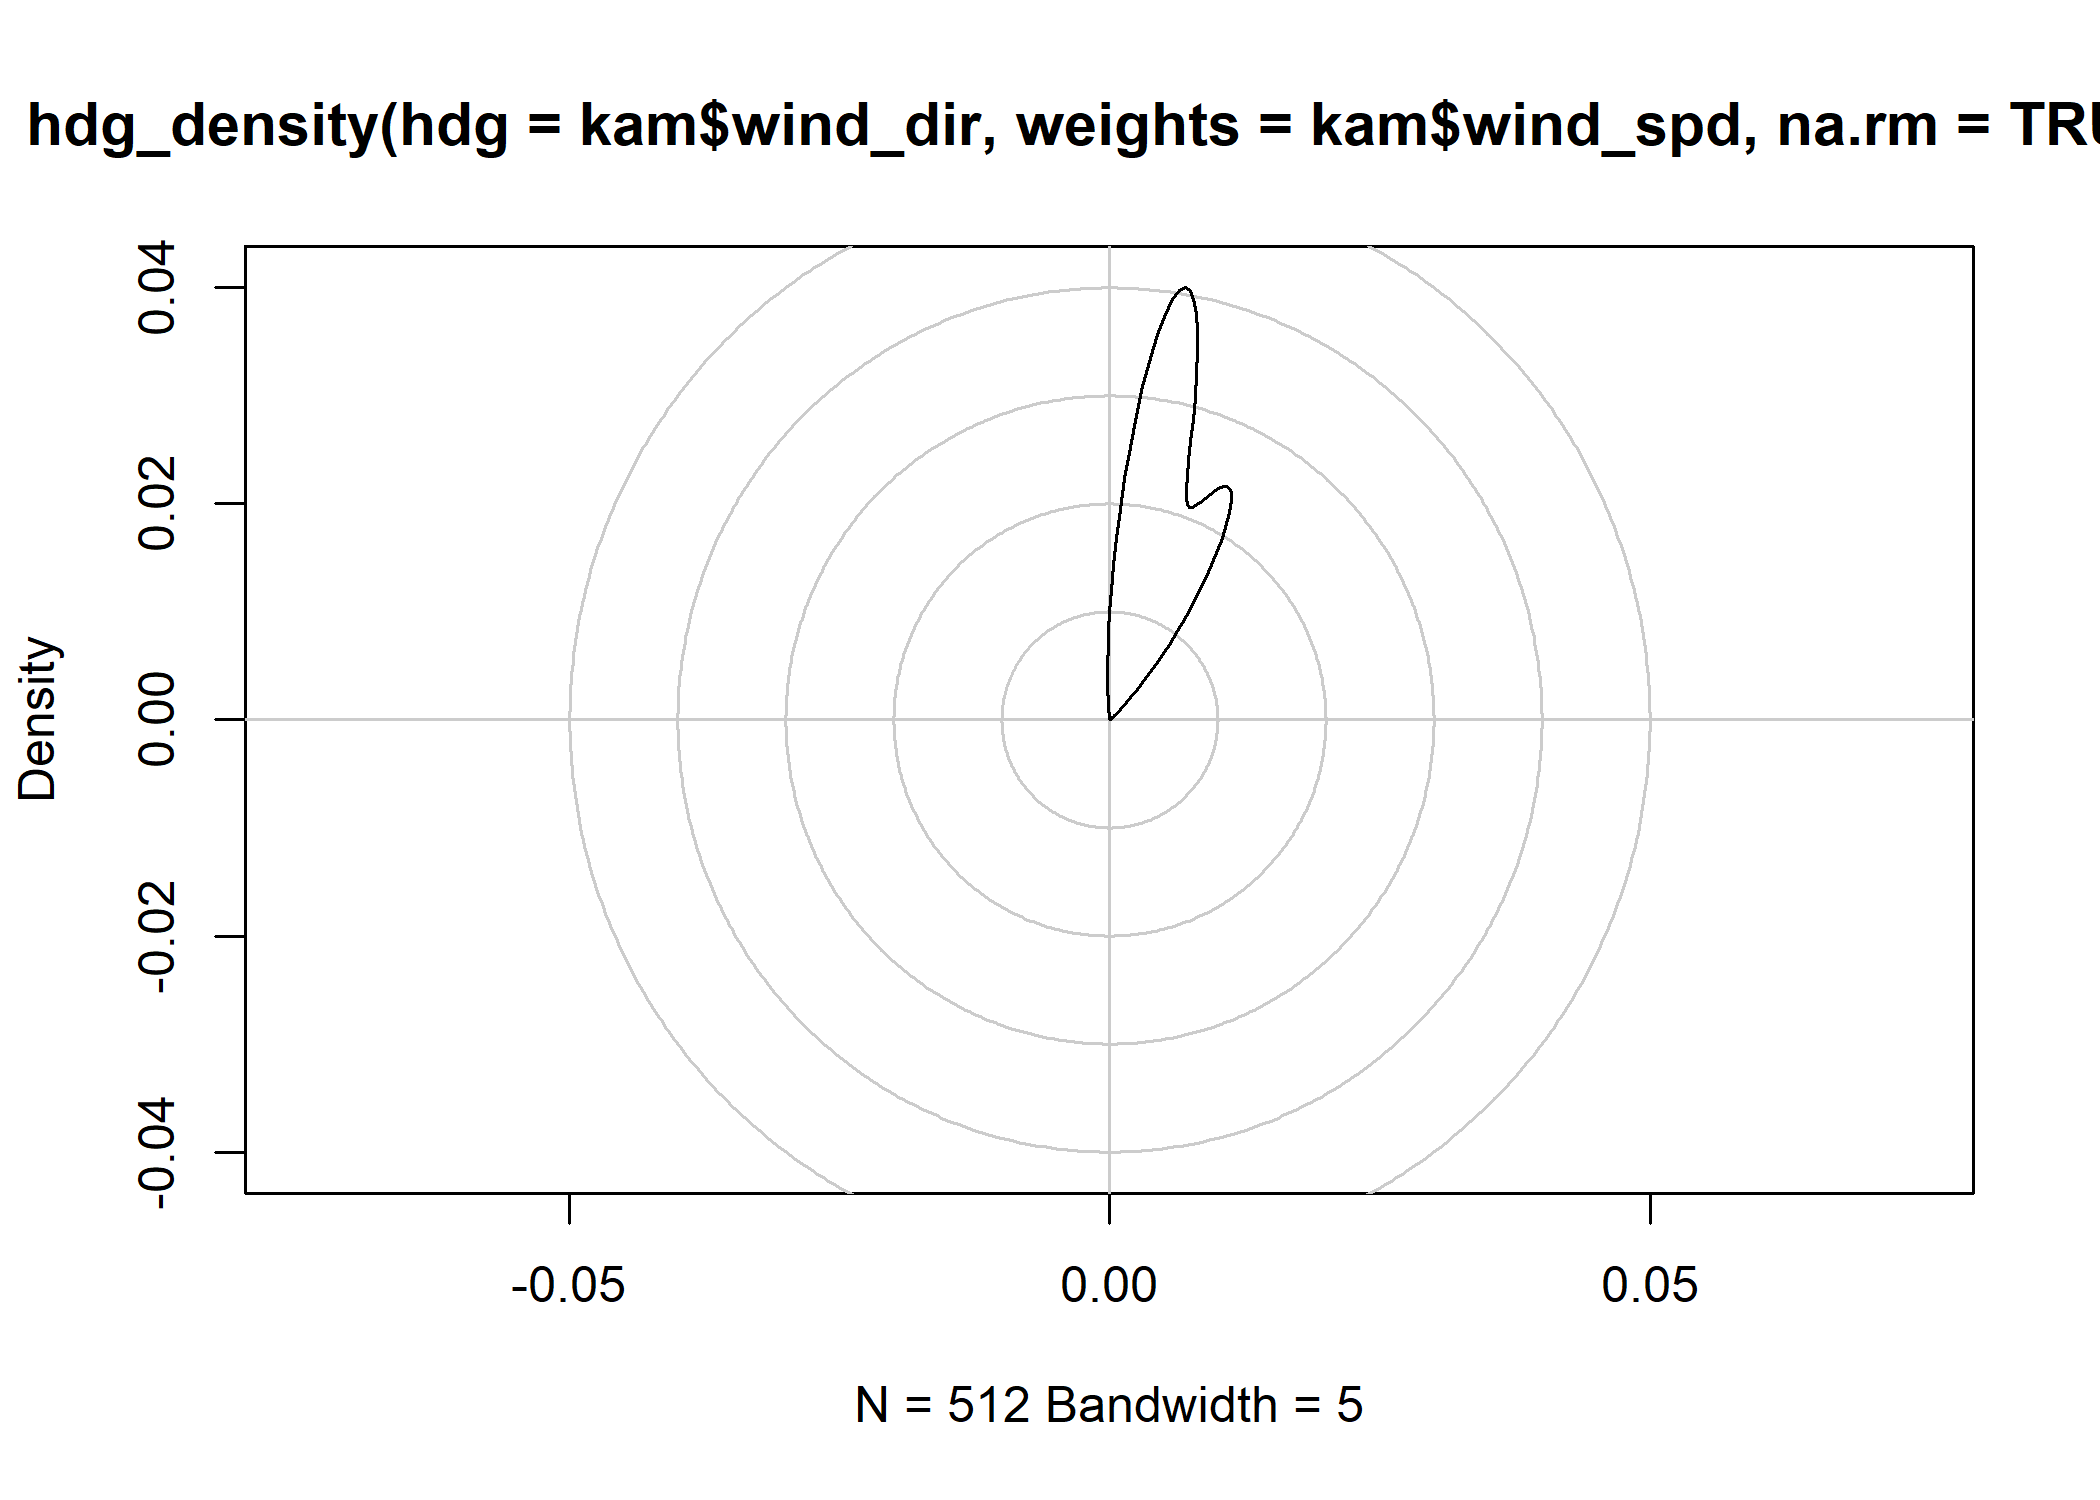
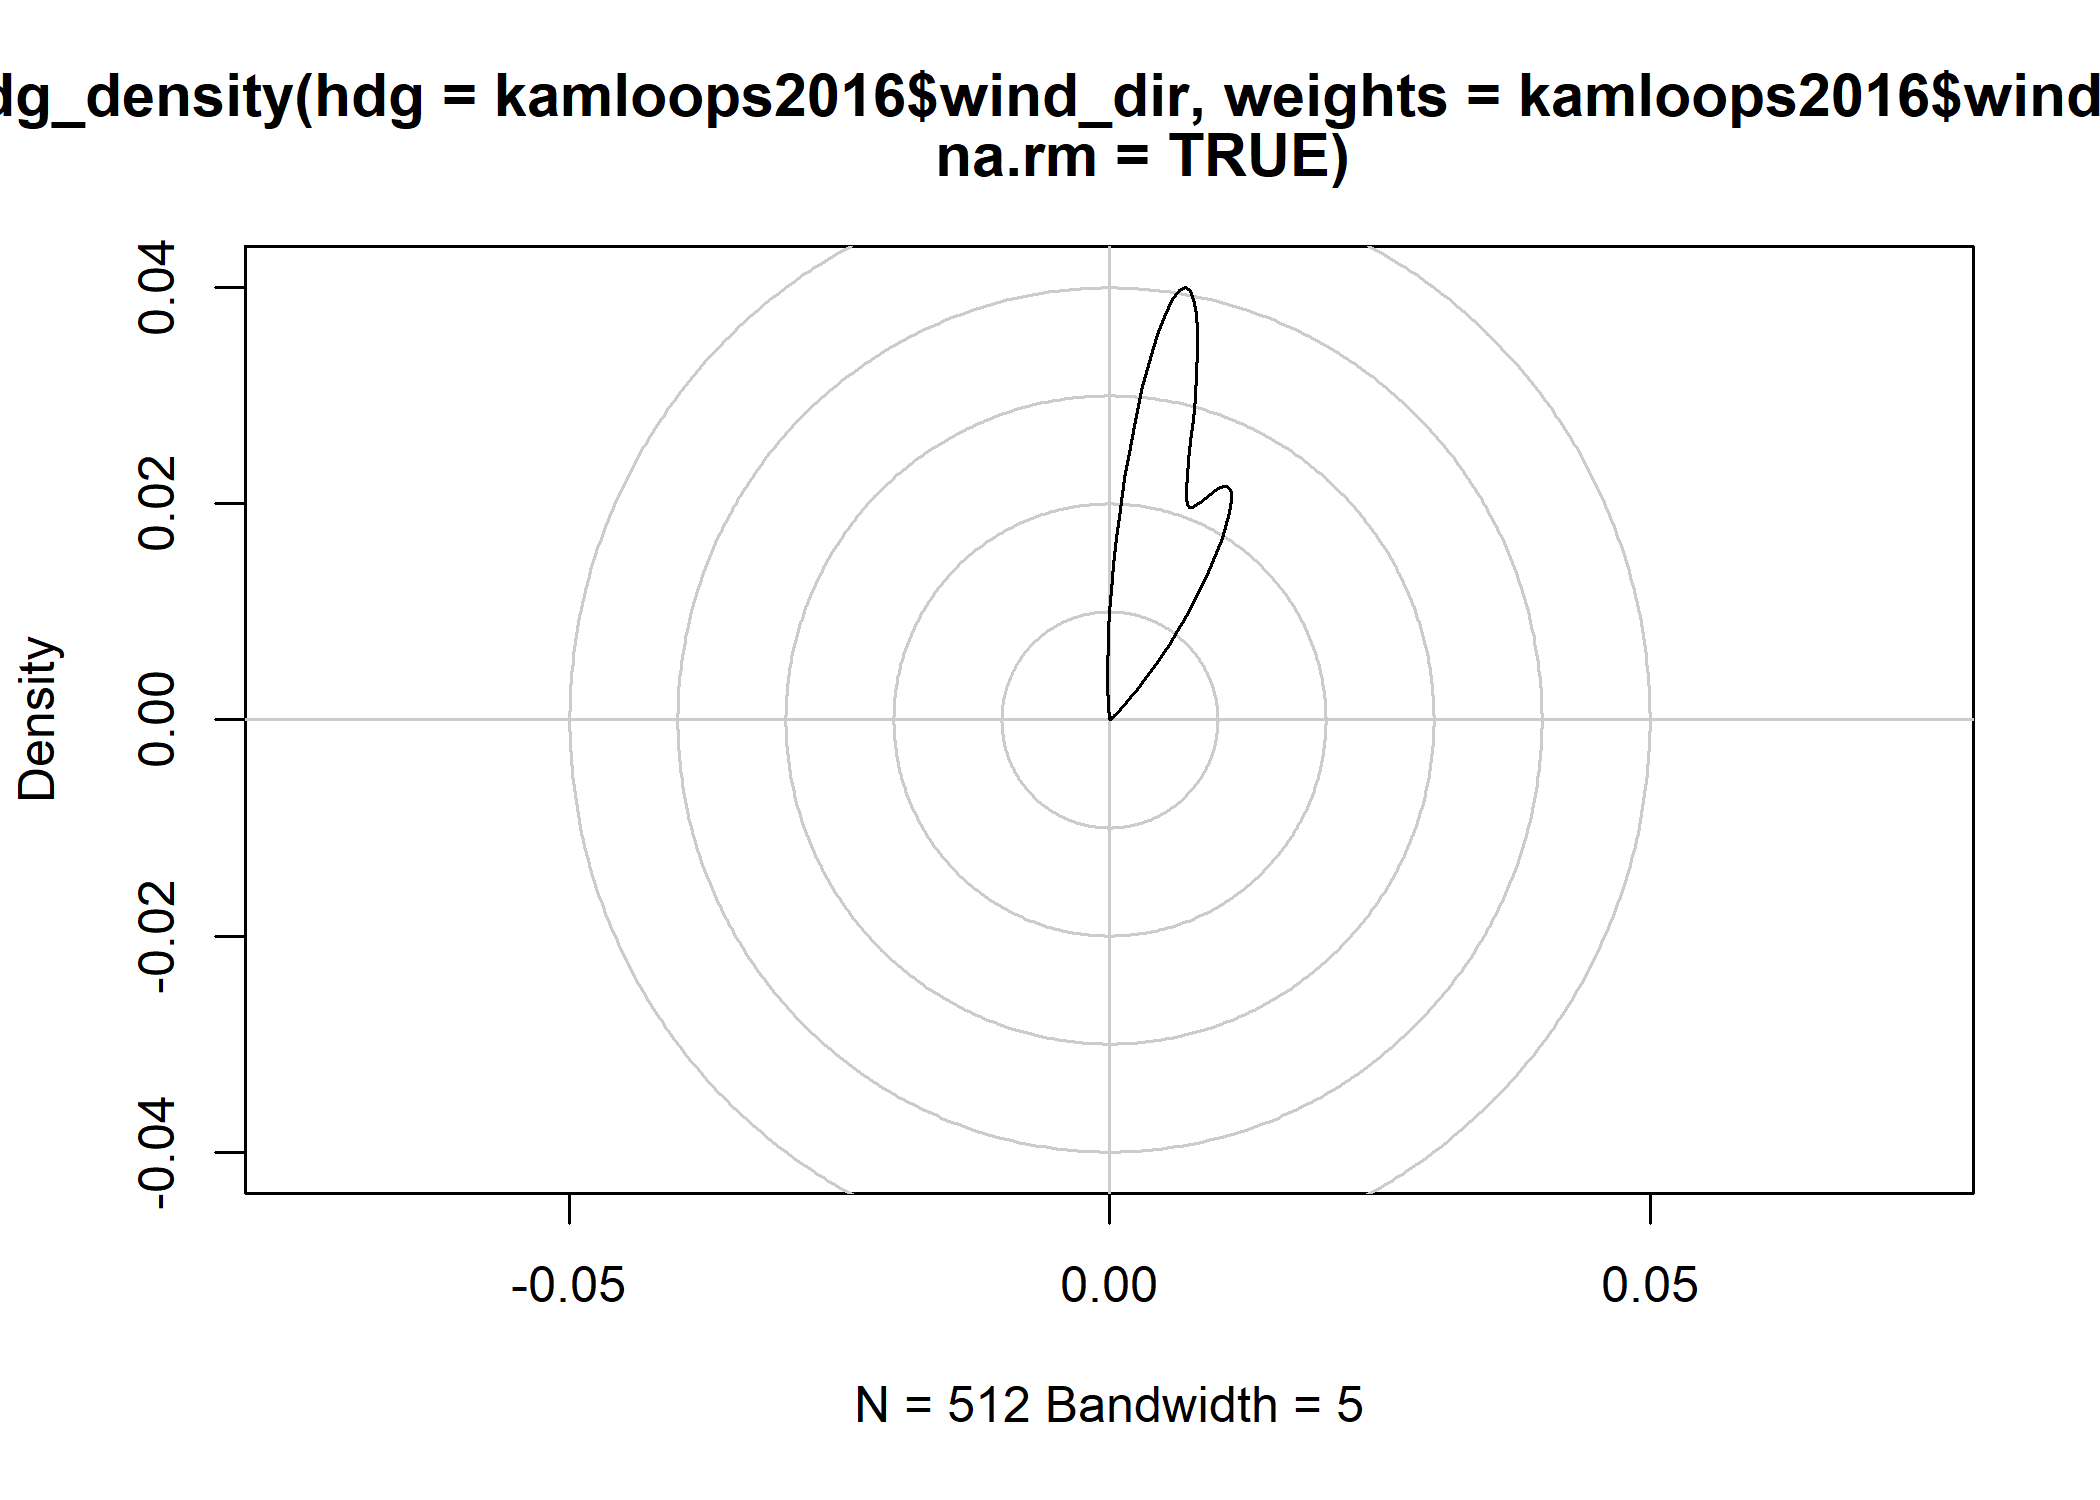
update README

Changed region(s): [[0.0, 0.0307, 1.0, 0.1227]]

diff --git a/README.md b/README.md
@@ -44,8 +44,13 @@ sd(c(350, 355, 360, 0, 5, 10))
 hdg_mean(c(350, 355, 360, 0, 5, 10))
 #> [1] 0
 hdg_sd(c(350, 355, 360, 0, 5, 10))
-#> [1] 7.071068
+#> [1] 6.458254
 ```
+
+For more statistical analyses of directions, you can use the [circular
+package](https://cran.r-project.org/package=circular). A convenience
+constructor `hdg_circular()` is provided to construct objects in the way
+that the circular package expects for compass headings.
 
 Functions to correct for magnetic declination are also provided for the
 [IGRF13](https://www.ngdc.noaa.gov/IAGA/vmod/home.html),
@@ -66,50 +71,45 @@ and/or current directions over time.
 
 ``` r
 library(tidyverse)
-library(weathercan)
+data("kamloops2016")
 
-# get some climate data
-kam <- weathercan::weather_dl(
-  station_ids = 51423,
-  start = "2016-01-01",
-  end = "2016-12-31"
-)
-#> As of weathercan v0.3.0 time display is either local time or UTC
-#> See Details under ?weather_dl for more information.
-#> This message is shown once per session
-
-kam %>% 
+kamloops2016 %>% 
+  as_tibble() %>%
+  filter(is.finite(wind_dir), is.finite(wind_spd)) %>% 
   group_by(month) %>% 
   summarise(
-    mean_wtd = hdg_mean(wind_dir, weights = wind_spd, na.rm = TRUE),
-    sd_wtd = hdg_sd(wind_dir, weights = wind_spd, na.rm = TRUE)
+    mean_wtd = hdg_mean(wind_dir, weights = wind_spd),
+    sd_wtd = hdg_sd(wind_dir, weights = wind_spd)
   )
 #> `summarise()` ungrouping output (override with `.groups` argument)
 #> # A tibble: 12 x 3
 #>    month mean_wtd sd_wtd
 #>    <chr>    <dbl>  <dbl>
-#>  1 01        13.5   7.80
-#>  2 02        11.9   6.04
-#>  3 03        15.0   8.09
-#>  4 04        18.1   9.01
-#>  5 05        20.5   8.87
-#>  6 06        16.8   8.38
-#>  7 07        18.4   8.72
-#>  8 08        21.8   8.29
-#>  9 09        18.6   9.47
-#> 10 10        13.7   7.52
-#> 11 11        11.0   5.25
-#> 12 12        17.5   9.60
+#>  1 01        13.5   7.79
+#>  2 02        11.9   6.00
+#>  3 03        15.0   8.07
+#>  4 04        18.1   8.97
+#>  5 05        20.5   8.86
+#>  6 06        16.8   8.34
+#>  7 07        18.4   8.70
+#>  8 08        21.8   8.32
+#>  9 09        18.6   9.43
+#> 10 10        13.7   7.44
+#> 11 11        11.0   5.26
+#> 12 12        17.5   9.59
 ```
 
 The headings package also comes with a circle-aware kernel density
-function for visualizing vectors of headings.
+estimator for visualizing vectors of headings. For circular kernel
+densities in a non-visualization context, use the [circular
+package](https://cran.r-project.org/package=circular)
+(`circular::density.circular()`).
 
 ``` r
 plot(
   hdg_density(
-    kam$wind_dir, 
-    weights = kam$wind_spd, 
+    kamloops2016$wind_dir, 
+    weights = kamloops2016$wind_spd, 
     na.rm = TRUE
   )
 )
@@ -121,7 +121,7 @@ To use in ggplot2, you will need to extract the values from the density
 output:
 
 ``` r
-kam %>% 
+kamloops2016 %>% 
   group_by(month) %>% 
   summarise(
     broom::tidy(hdg_density(wind_dir, weights = wind_spd))
